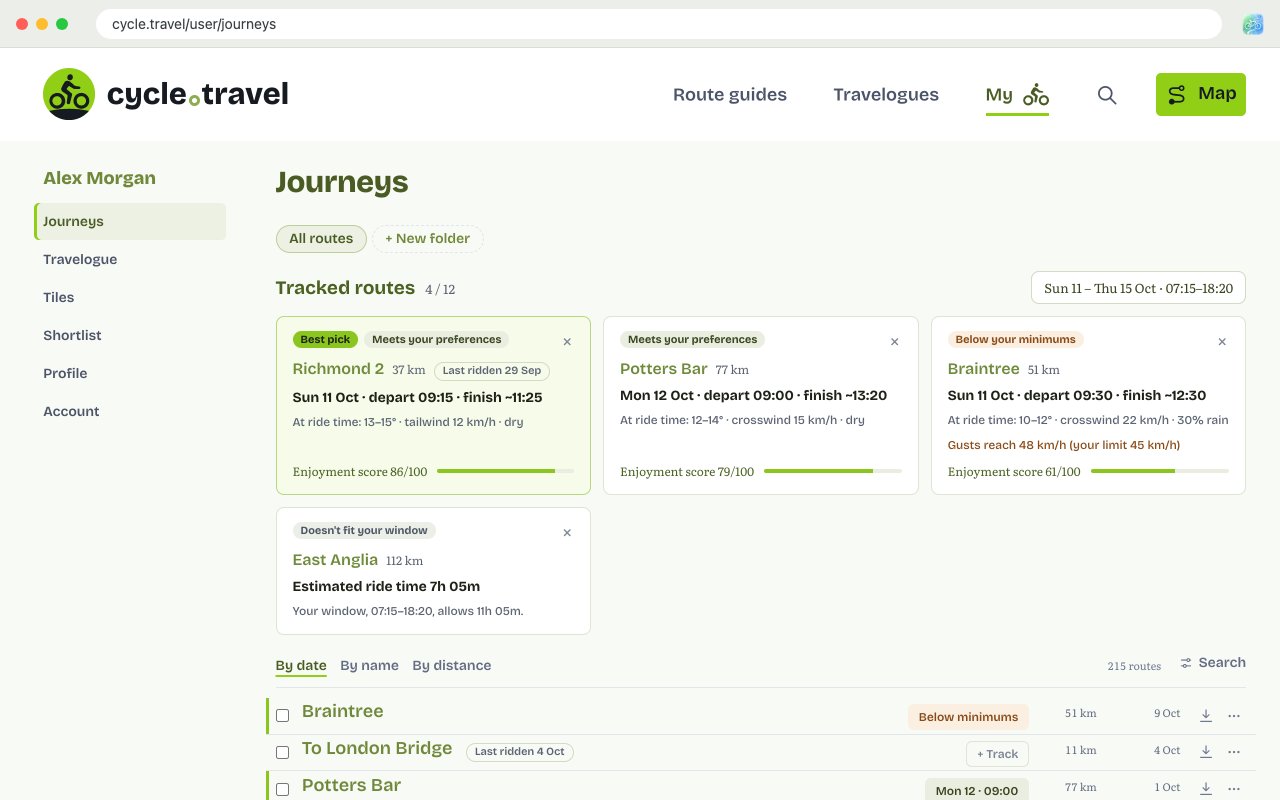
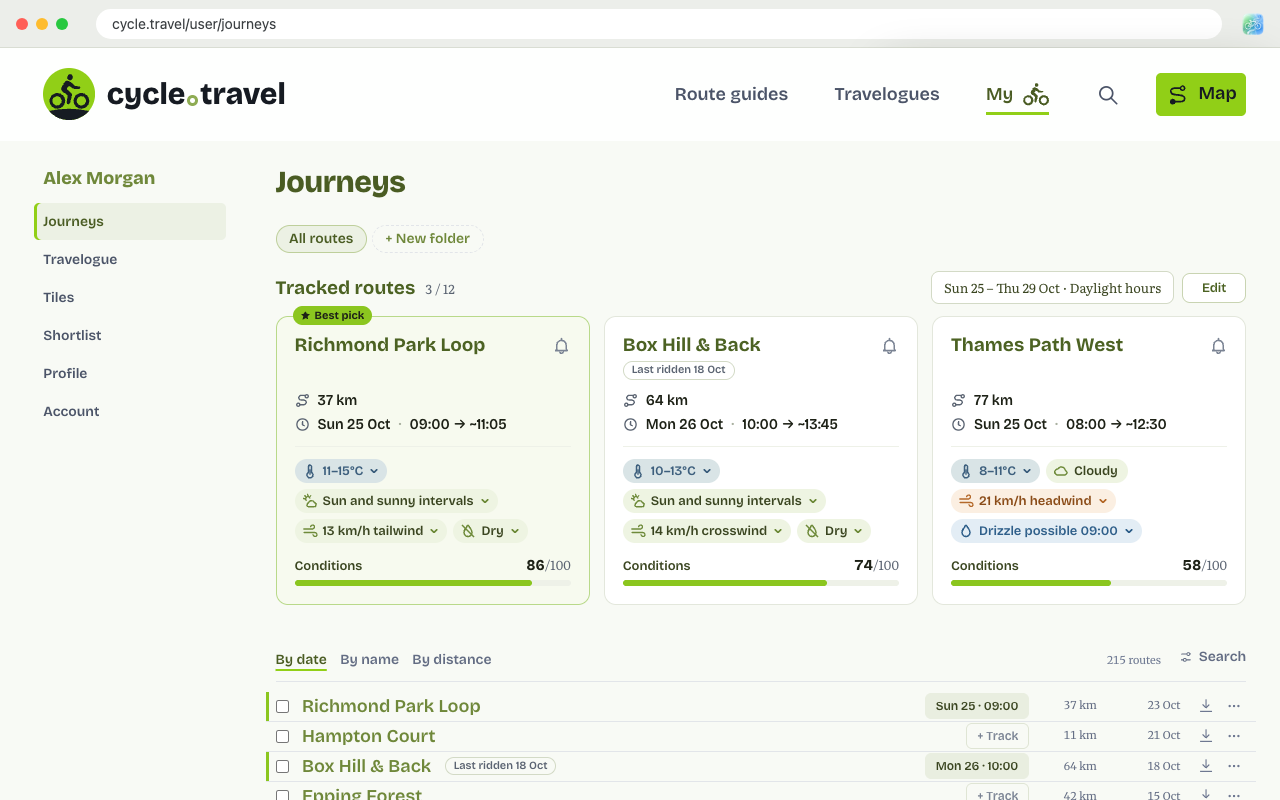
Refresh the Chrome Web Store screenshots and description
New screenshots and marquee from the current extension, with made-up routes and
rider: the Journeys page tiles, Rides, the alerts dialog, check-in and next
windows, and Preferences. The description drops the day presets and the
headwind warnings, and describes the current preferences.

diff --git a/extension/STORE.md b/extension/STORE.md
@@ -5,7 +5,8 @@ CI builds the upload: every extension change merged to `main` produces a GitHub 
 That zip is built with `STORE_BUILD=1`, so it has no manifest `key` (the store rejects one).
 
 **Item ID:** `ckoikfoejfcaphmdnpomgcmealkecoep`, Unlisted. 0.1.98 was submitted for review on
-24 October 2026 and publishes automatically once it passes. Its sign-in redirect is already in
+24 October 2026, then resubmitted the same day with new screenshots, marquee and description. It
+publishes automatically once it passes. Its sign-in redirect is already in
 `AUTH_CONFIG_JSON.clientRedirects`.
 
 ## First upload (manual, once)
@@ -39,7 +40,8 @@ That zip is built with `STORE_BUILD=1`, so it has no manifest `key` (the store r
   >
   > HOW IT WORKS
   > 1. Track the routes you're considering, straight from your cycle.travel Journeys page.
-  > 2. Say when you can ride: today, tomorrow, the weekend or days you pick, and your time window.
+  > 2. Say when you can ride: tap the days that suit you over the next week, and set your time
+  >    window.
   > 3. Ride On picks the best route and start time, with an estimated finish, and tells you why:
   >    temperature, wind along the route, gusts, rain and sunshine at ride time.
   > 4. Once your window has passed, tell Ride On whether you rode it, and see your next best
@@ -47,12 +49,12 @@ That zip is built with `STORE_BUILD=1`, so it has no manifest `key` (the store r
   >
   > WHAT YOU GET
   > • Your rides ranked with a conditions score out of 100, and a clear best pick
-  > • The warnings you'd want before setting off, like "Headwind for the first half" or gusts over
-  >   your limit
+  > • Temperature, sky, wind and rain at a glance, with anything outside your comfort zone picked
+  >   out, and the wind along the ride: where it's behind you, across you or in your face
   > • Routes that don't fit your time window or fall below your minimums are flagged, not hidden
-  > • Preferences that are yours: distance and climbing, how much rain and sunshine matter, a
-  >   minimum temperature (fixed or by month), and rain and gust limits
-  > • Best times shown right on cycle.travel's Journeys page, next to each route
+  > • Preferences that are yours: distance and climbing, your ideal temperature and wind, how much
+  >   rain and sunshine matter, and limits for cold (fixed or by month), heat, rain and gusts
+  > • Your tracked routes and their best times right on cycle.travel's Journeys page
   > • Alerts for the ride you've picked: a notification if rain moves in, gusts pass your limit, it
   >   turns colder than you like, or a better time opens up
   > • A history of the rides you've logged
@@ -84,8 +86,9 @@ That zip is built with `STORE_BUILD=1`, so it has no manifest `key` (the store r
 
 The icon and small tile are made from the app logo (`app/RideOn.icon`) with the extension's fonts
 and colours. The screenshots and the marquee's right half are the real extension (the e2e build
-against a mock API) over a saved copy of the Journeys page: the page alone, then the popup's
-check-in and next windows, History, Preferences and Rides.
+against a mock API, with made-up routes and rider) over a saved copy of the Journeys page: the
+page with its tracked-route tiles, the popup's Rides, the alerts dialog, the popup's check-in and
+next windows, then Preferences. The marquee shows the popup's Rides.
 
 ## Privacy practices
 
